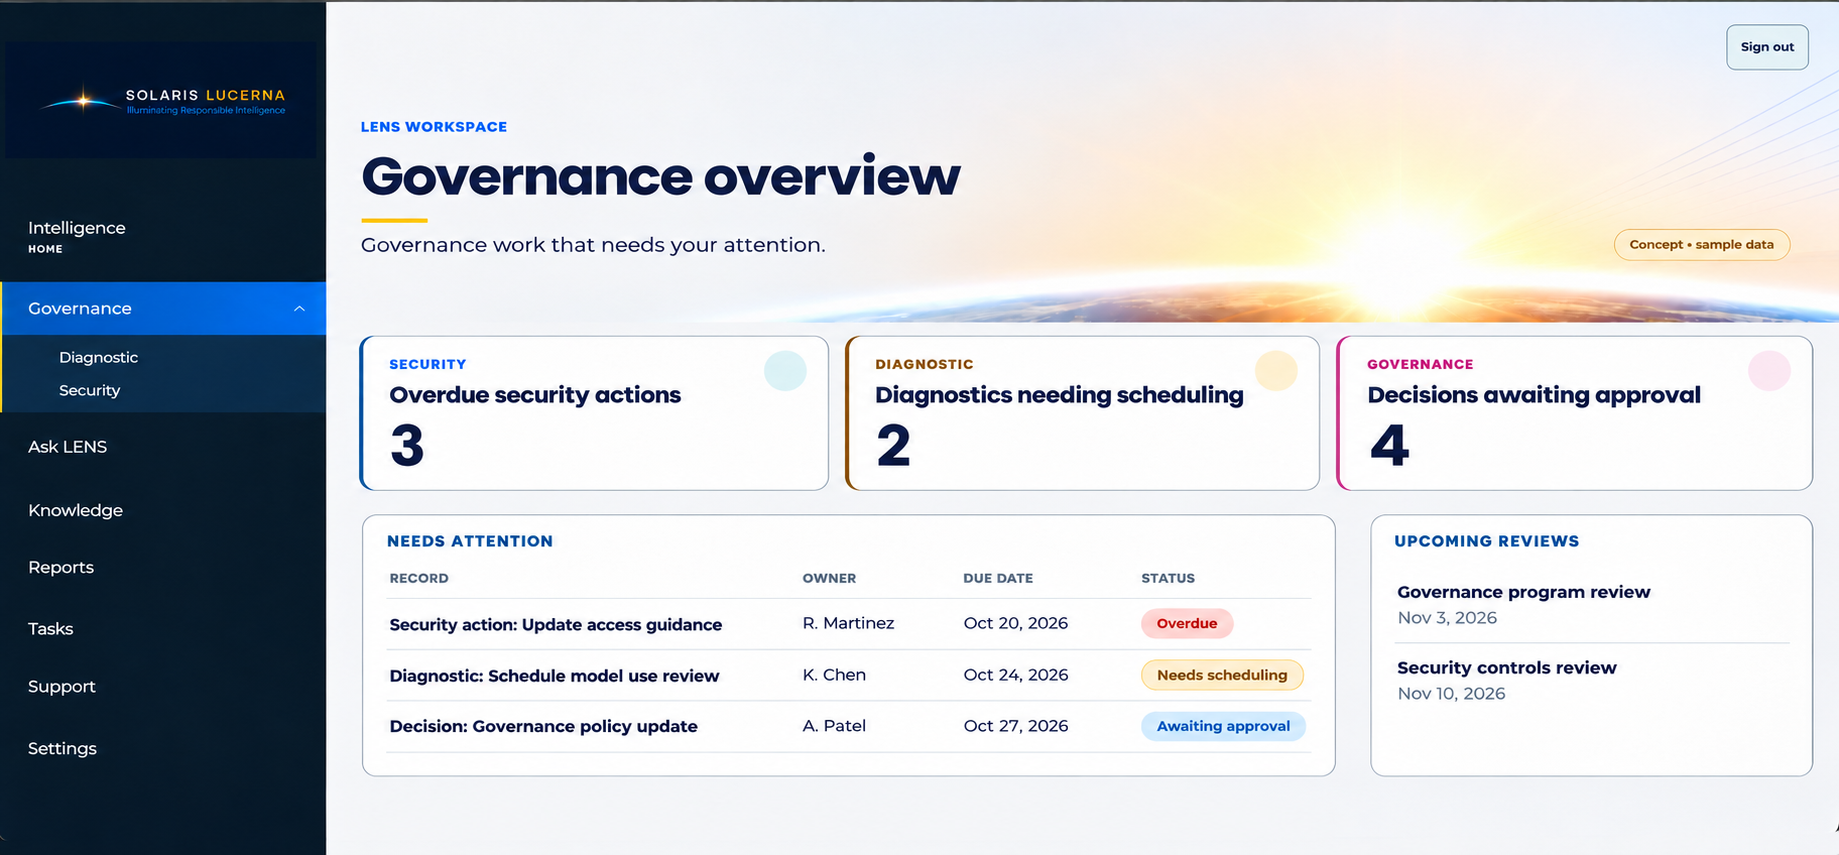
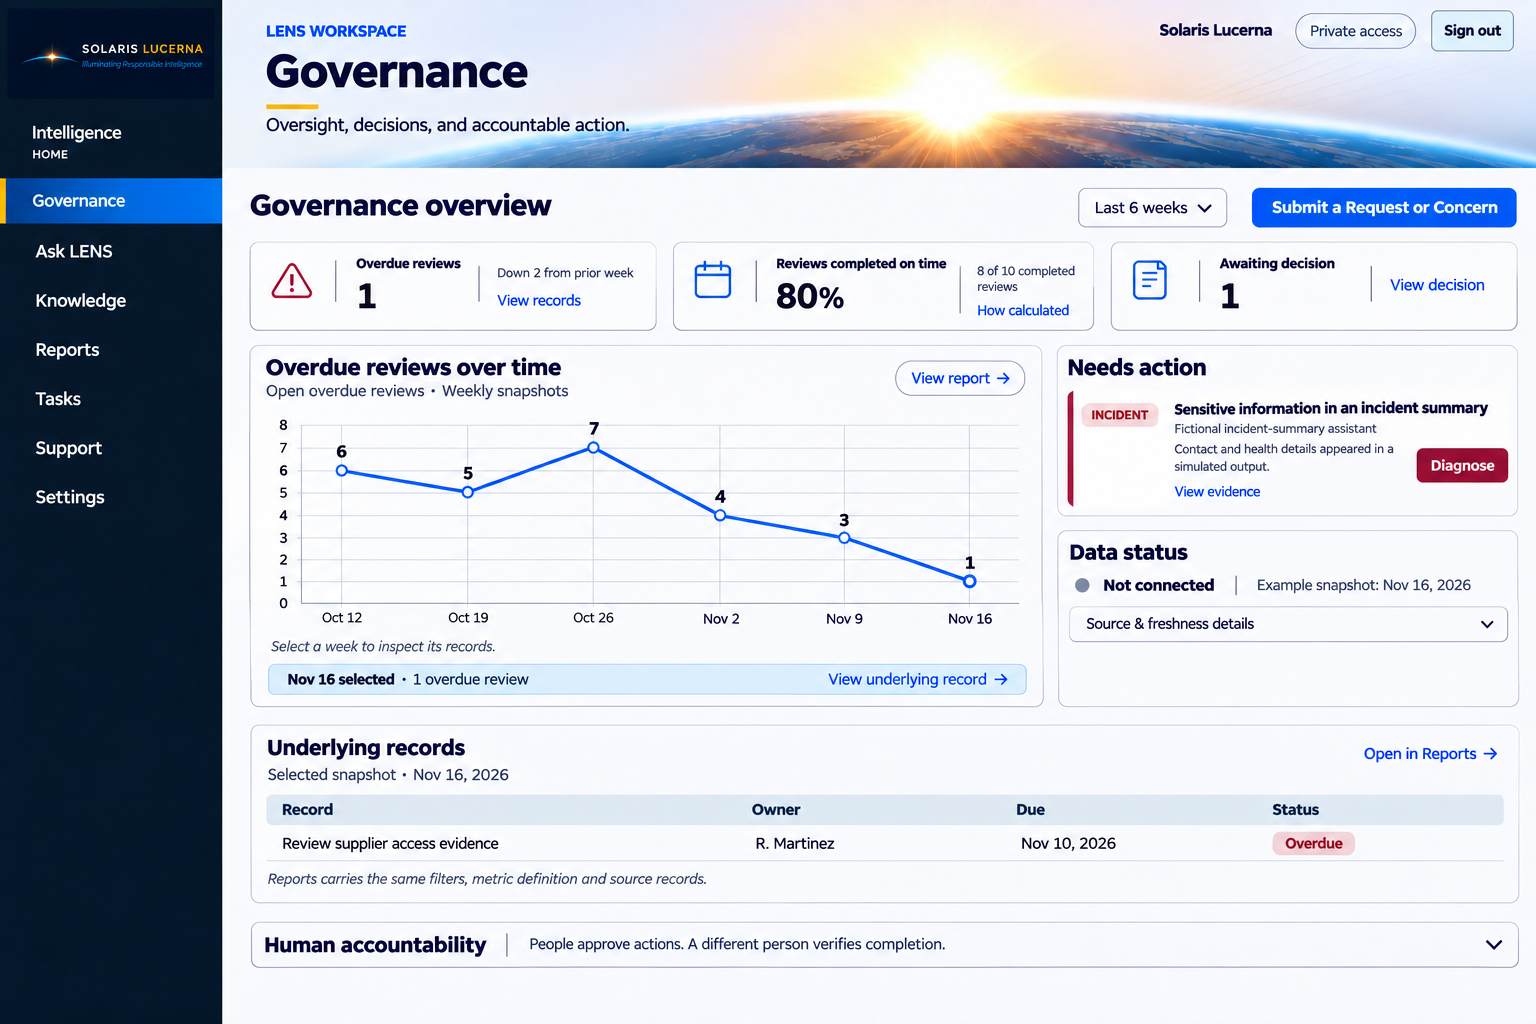
feat(website): refresh LENS governance preview

diff --git a/app/index.html b/app/index.html
@@ -134,7 +134,7 @@
             <p>An illustrative look at the LENS Governance workspace, showing how organizational governance activities, diagnostic scheduling, security-related actions, and decisions requiring attention could be presented in a unified experience.</p>
             <figure>
               <button class="lens-prototype-trigger" id="lens-prototype-trigger" type="button" aria-haspopup="dialog" aria-controls="lens-prototype-dialog" aria-label="Open a larger view of the LENS Governance concept preview.">
-                <img src="assets/lens-intelligence-prototype-accessible-light.png" width="1839" height="855" alt="Concept mockup of the LENS Governance overview dashboard.">
+                <img src="assets/lens-intelligence-prototype-accessible-light.png?v=0.23.0" width="1536" height="1024" alt="Concept mockup of the LENS Governance overview dashboard.">
                 <span aria-hidden="true">View larger</span>
               </button>
               <figcaption>Concept preview: This interface contains sample data and represents an evolving product concept. The final interface, functionality, and available capabilities may differ as development progresses.</figcaption>
@@ -142,7 +142,7 @@
             <dialog class="lens-prototype-dialog" id="lens-prototype-dialog" aria-label="Expanded LENS Governance concept preview">
               <div class="lens-prototype-dialog-content">
                 <button class="lens-prototype-close" id="lens-prototype-close" type="button">Close</button>
-                <img src="assets/lens-intelligence-prototype-accessible-light.png" width="1839" height="855" alt="Expanded concept mockup of the LENS Governance overview dashboard.">
+                <img src="assets/lens-intelligence-prototype-accessible-light.png?v=0.23.0" width="1536" height="1024" alt="Expanded concept mockup of the LENS Governance overview dashboard.">
               </div>
             </dialog>
           </div>

diff --git a/tests/smoke_test.rb b/tests/smoke_test.rb
@@ -41,9 +41,10 @@ prototype_support = "An illustrative look at the LENS Governance workspace, show
 prototype_disclosure = "Concept preview: This interface contains sample data and represents an evolving product concept. The final interface, functionality, and available capabilities may differ as development progresses."
 prototype_alt = "Concept mockup of the LENS Governance overview dashboard."
 prototype_expanded_alt = "Expanded concept mockup of the LENS Governance overview dashboard."
-prototype_dimensions = 'width="1839" height="855"'
-failures << "approved LENS Intelligence prototype preview is incomplete" unless File.file?(File.join(app, prototype_asset)) && [prototype_heading, prototype_support, prototype_disclosure, prototype_alt, prototype_expanded_alt, prototype_dimensions].all? { |copy| html.include?(copy) }
[1 lines of base64/hex data omitted]
+prototype_dimensions = 'width="1536" height="1024"'
+prototype_versioned_source = 'assets/lens-intelligence-prototype-accessible-light.png?v=0.23.0'
+failures << "approved LENS Intelligence prototype preview is incomplete" unless File.file?(File.join(app, prototype_asset)) && [prototype_heading, prototype_support, prototype_disclosure, prototype_alt, prototype_expanded_alt, prototype_dimensions, prototype_versioned_source].all? { |copy| html.include?(copy) }
[1 lines of base64/hex data omitted]
 failures << "LENS Intelligence prototype preview is not between Planned Capabilities and Current Status" unless html.index("Planned Capabilities") < html.index(prototype_heading) && html.index(prototype_heading) < html.index("Current Status")
 failures << "LENS Intelligence prototype lightbox is incomplete" unless html.include?('id="lens-prototype-trigger"') && html.include?('aria-haspopup="dialog"') && html.include?('aria-label="Open a larger view of the LENS Governance concept preview."') && html.include?('id="lens-prototype-dialog"') && html.include?('aria-label="Expanded LENS Governance concept preview"') && html.include?('id="lens-prototype-close"') && script.include?("prototypeDialog.showModal()") && script.include?('event.target === prototypeDialog') && script.include?('prototypeTrigger.focus({ preventScroll: true })')
 failures << "removed Resources surface remains" if html.match?(/id="resources"|Resources &amp; Publications|resource-(?:grid|card|type)|status-label/i) || config.match?(/label: "Resources"|href: "#resources"/) || css.match?(/\.resources-section|\.resource-(?:grid|card|type)|\.status-label/)

diff --git a/CHANGELOG.md b/CHANGELOG.md
@@ -3,6 +3,7 @@
 ## 2026-11-18 — Temporarily hide public LENS login
 
 - Removed the public-site **LENS Login** control from the LENS product explanation under Founder direction so visitors without access are not invited into the private application.
+- Replaced the public LENS concept preview with the exact Founder-supplied Governance overview screenshot, preserving the existing responsive preview, enlarged view, accessibility labels, and concept/sample-data disclosure.
 - Preserved the surrounding LENS copy, concept preview, capabilities, layout, navigation, branding, and private LENS application without changing authentication or access.
 
 ## 2026-11-09 — LENS login button label
